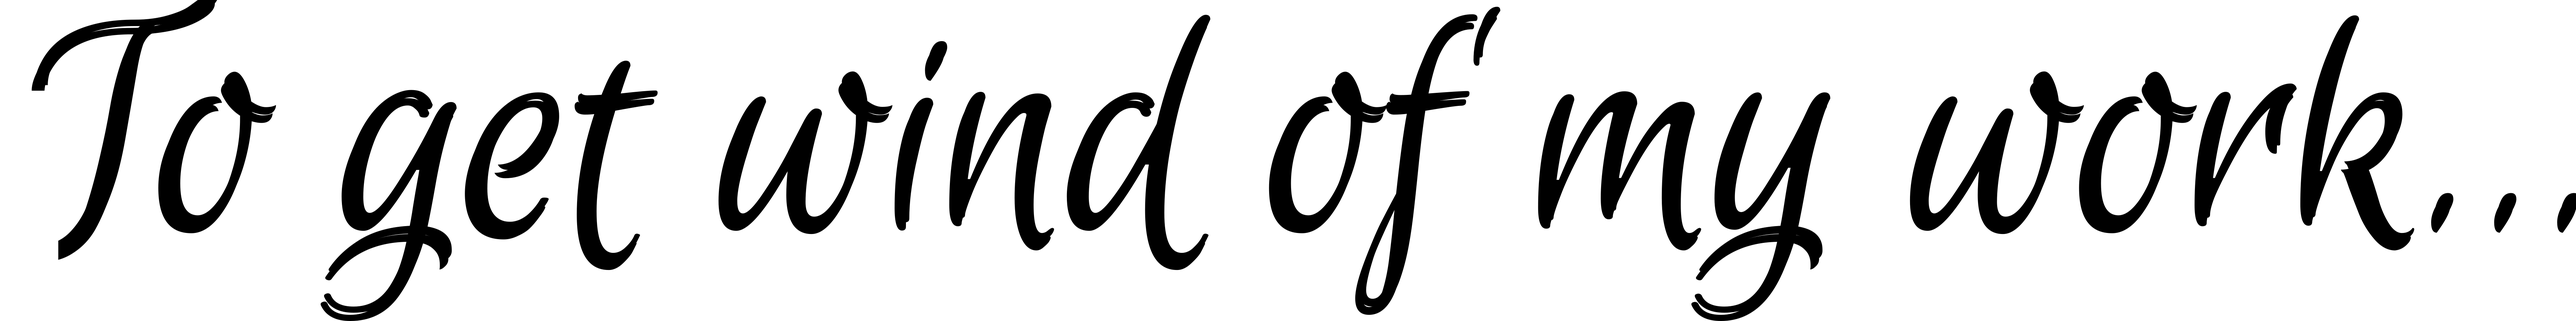
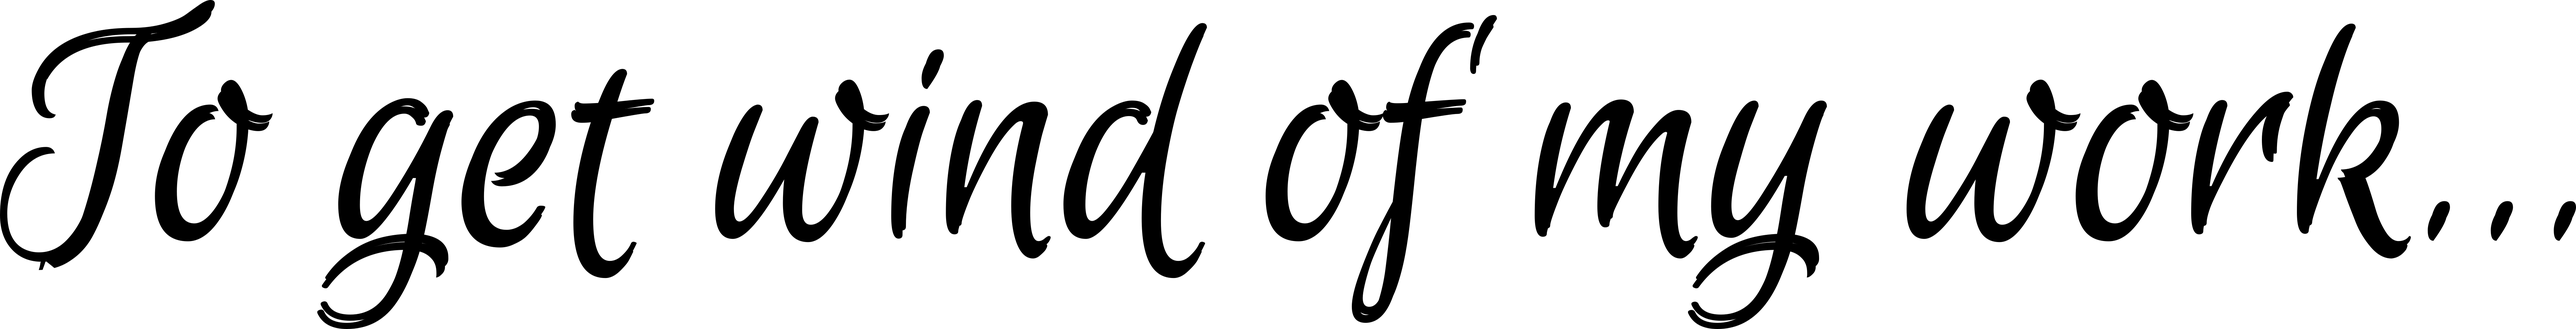
Fixed bug in skywriting

diff --git a/js/animate/skywriting.js b/js/animate/skywriting.js
@@ -112,10 +112,10 @@ function drawSkywriting(text) {
   	
 	tapSkywritingContext.drawImage(
 		tapSkywritingImage,
-		skywritingTapXPlacement,
-		skywritingTapYPlacement + 5,
+		skywritingXPlacement,
+		skywritingYPlacement + 15,
 		tapSkywritingCanvas.width * .80,
-		skywritingTapNewHeight,
+		tapSkywritingImage.height * (tapSkywritingCanvas.width * .60)/skywritingTapOriginalWidth,
 	);
 
 	tapSkywritingContext.drawImage(
